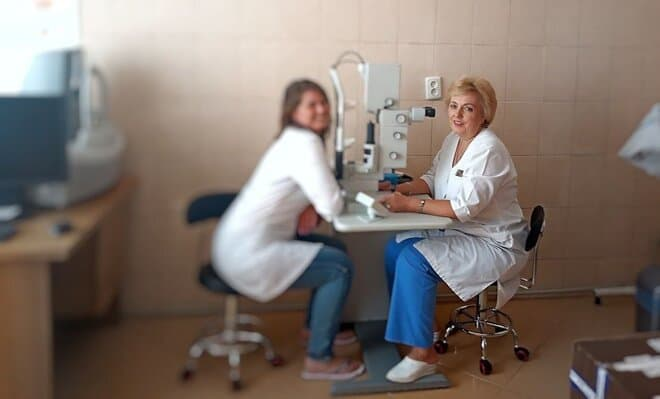
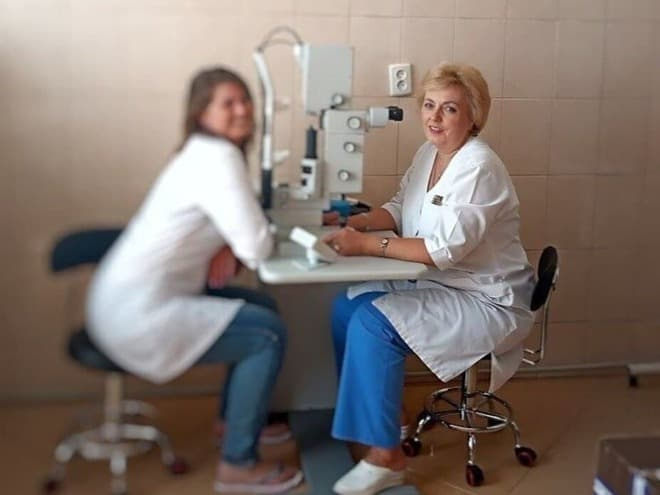
changes img width and height

diff --git a/src/partials/services.html b/src/partials/services.html
@@ -9,7 +9,6 @@
                     ./images/servisec/make-glasses-4x.jpg 4x
                 " 
                 width="330"
-                height="265"
                 class="services__img"
                 src="./images/servisec/make-glasses-1x.jpg" 
                 alt="make glasses">
@@ -21,8 +20,7 @@
                     ./images/servisec/repare-glasses-3x.jpg 3x,
                     ./images/servisec/repare-glasses-4x.jpg 4x
                 " 
-                width="330"
-                height="265" 
+                width="330" 
                 class="services__img" 
                 src="./images/servisec/repare-glasses-1x.jpg" 
                 alt="repare glasses">
@@ -35,8 +33,7 @@
                     ./images/servisec/sun-glasses-3x.jpg 3x,
                     ./images/servisec/sun-glasses-4x.jpg 4x
                 "
-                width="330"
-                height="265" 
+                width="330" 
                 class="services__img" 
                 src="./images/servisec/sun-glasses-1x.jpg" 
                 alt="sun glasses">
@@ -49,8 +46,7 @@
                     ./images/servisec/linses-3x.jpg 3x,
                     ./images/servisec/linses-4x.jpg 4x
                 "
-                width="330"
-                height="265" 
+                width="330" 
                 class="services__img" 
                 src="./images/servisec/linses-1x.jpg" 
                 alt="contact linses">
@@ -63,8 +59,7 @@
                     ./images/servisec/accessory-3x.jpg 3x,
                     ./images/servisec/accessory-4x.jpg 4x
                 "
-                width="330"
-                height="265" 
+                width="330" 
                 class="services__img" 
                 src="./images/servisec/accessory-1x.jpg" 
                 alt="doctor">
@@ -77,8 +72,7 @@
                     ./images/servisec/doctor-3x.jpg 3x,
                     ./images/servisec/doctor-4x.jpg 4x
                 "
-                width="330"
-                height="265" 
+                width="330" 
                 class="services__img" 
                 src="./images/servisec/doctor-1x.jpg" 
                 alt="doctor">

diff --git a/src/partials/ophthalmologist.html b/src/partials/ophthalmologist.html
@@ -12,7 +12,6 @@
                         "
                         class="ophthalmologist__img" 
                         width="280" 
-                        height="330"
                         src="./images//about/doctor.jpg" 
                         alt="Наш офтальмолог">
                     </div>
